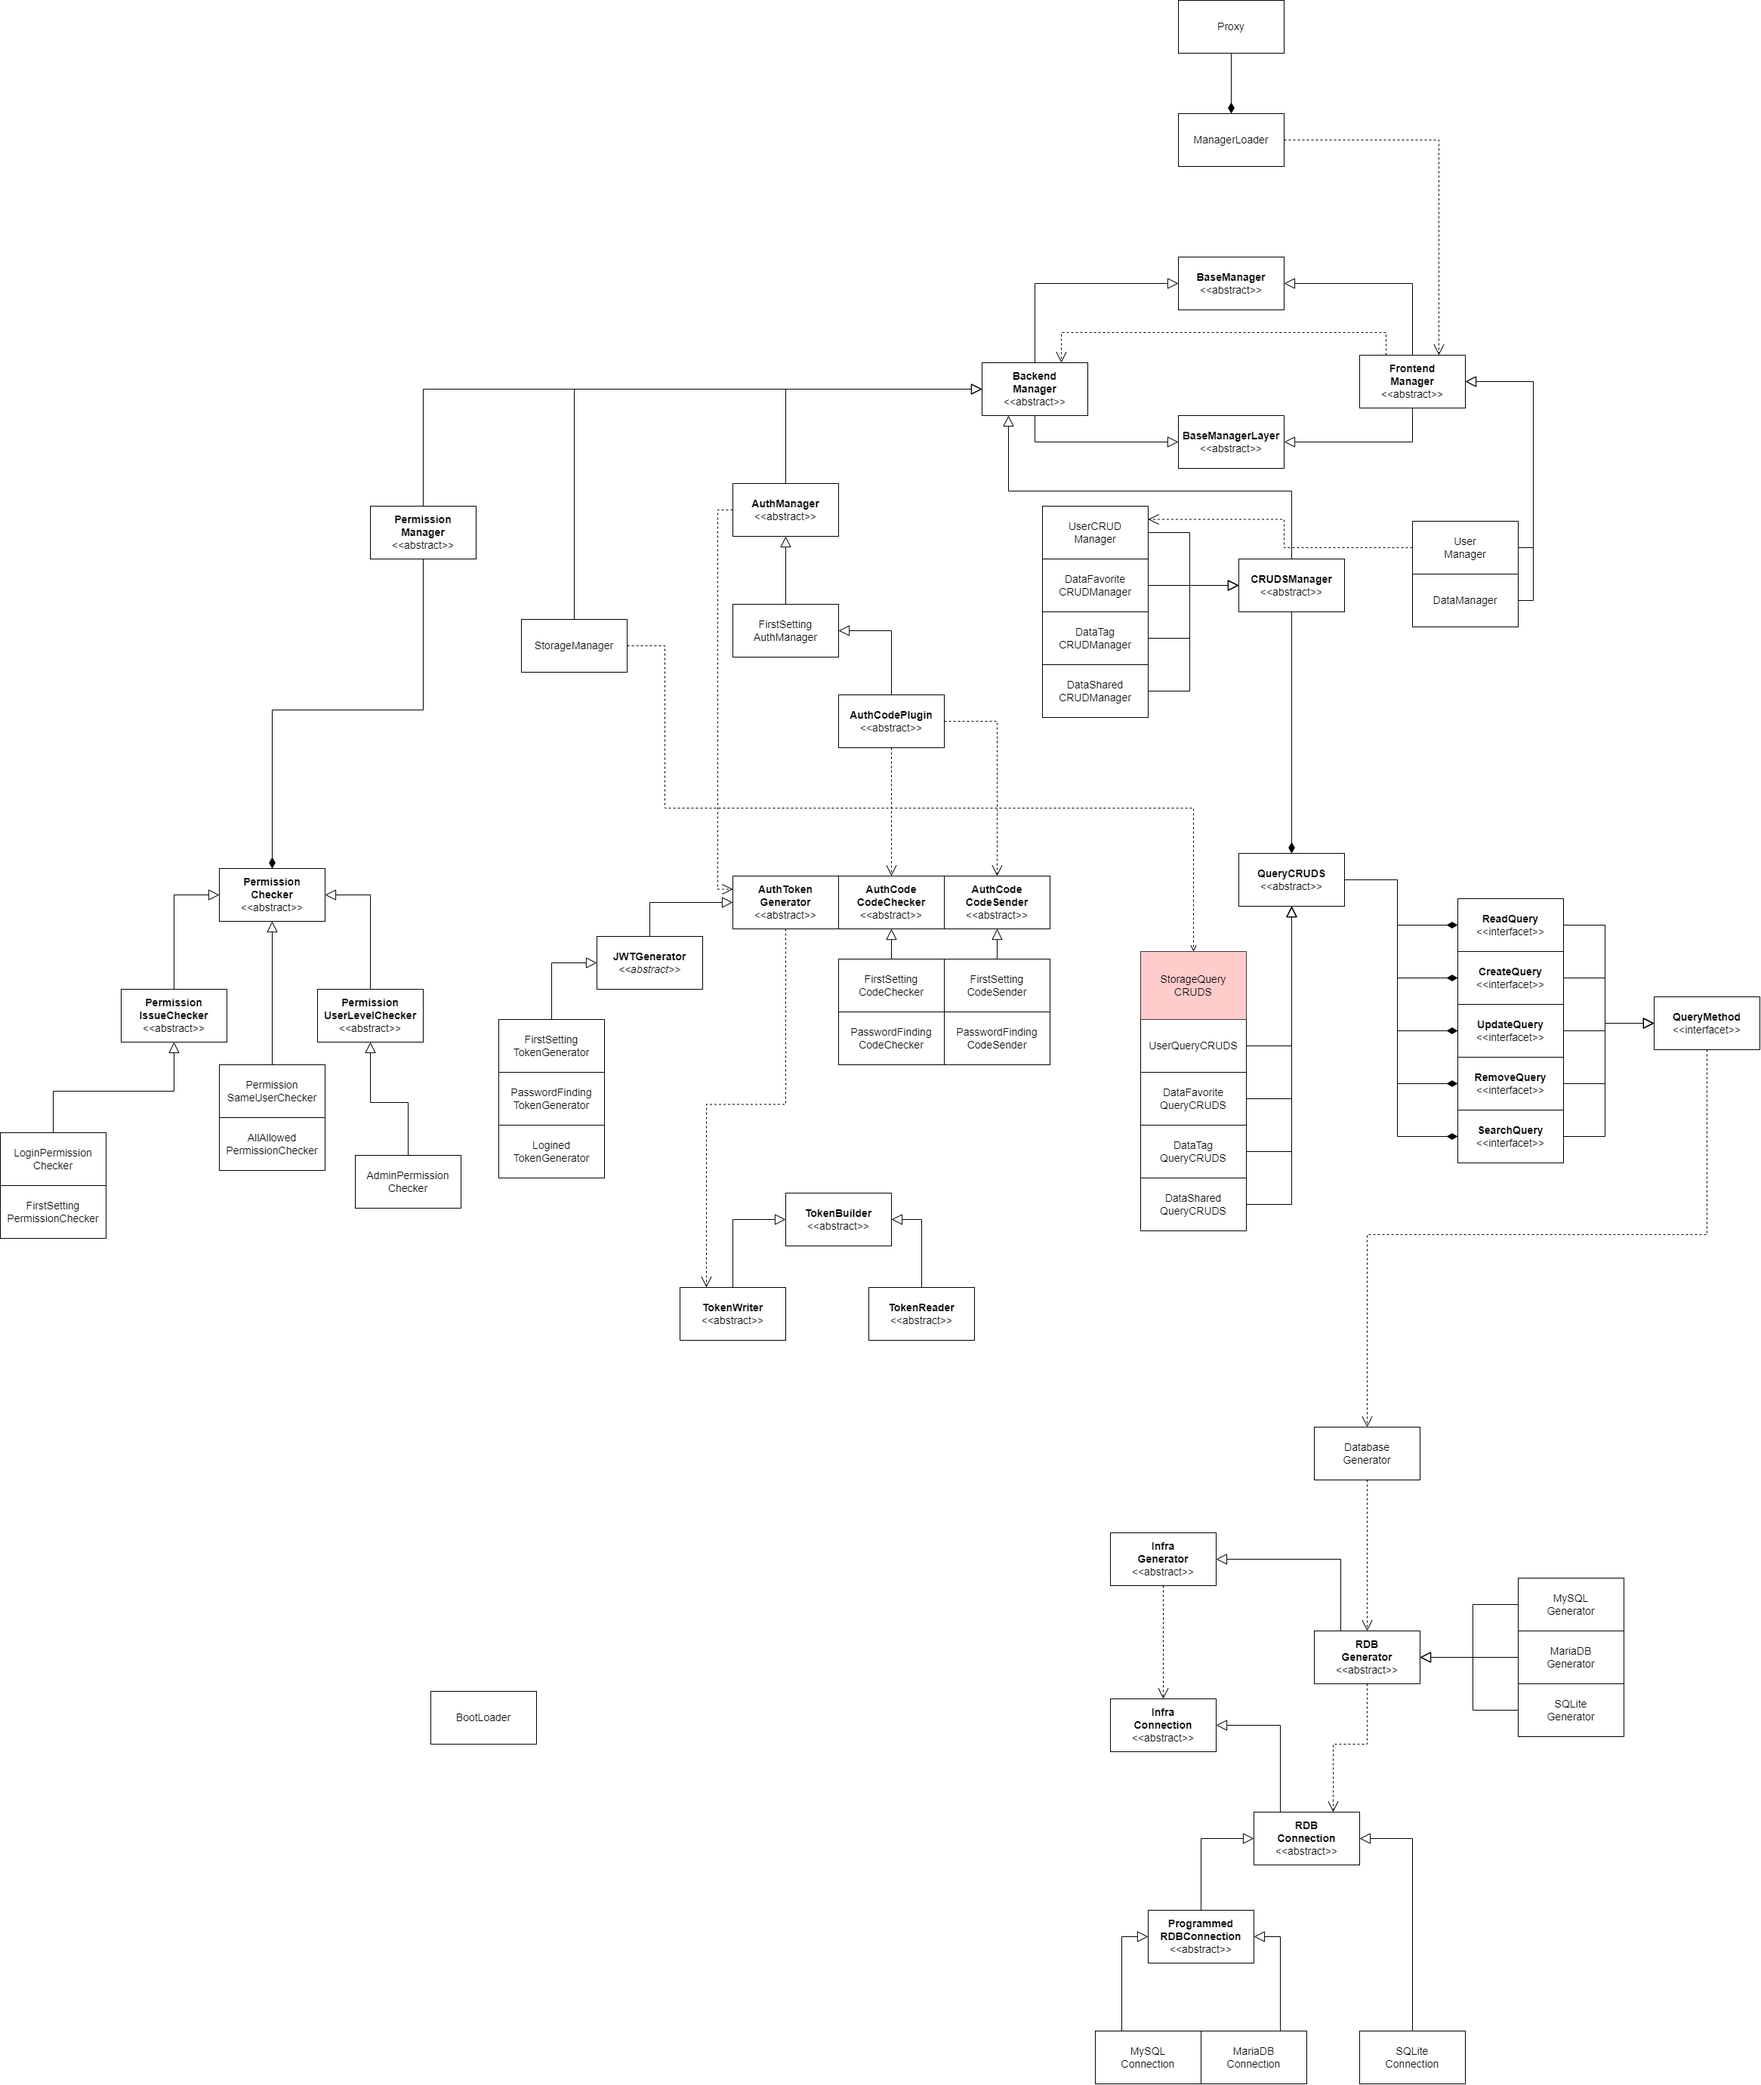
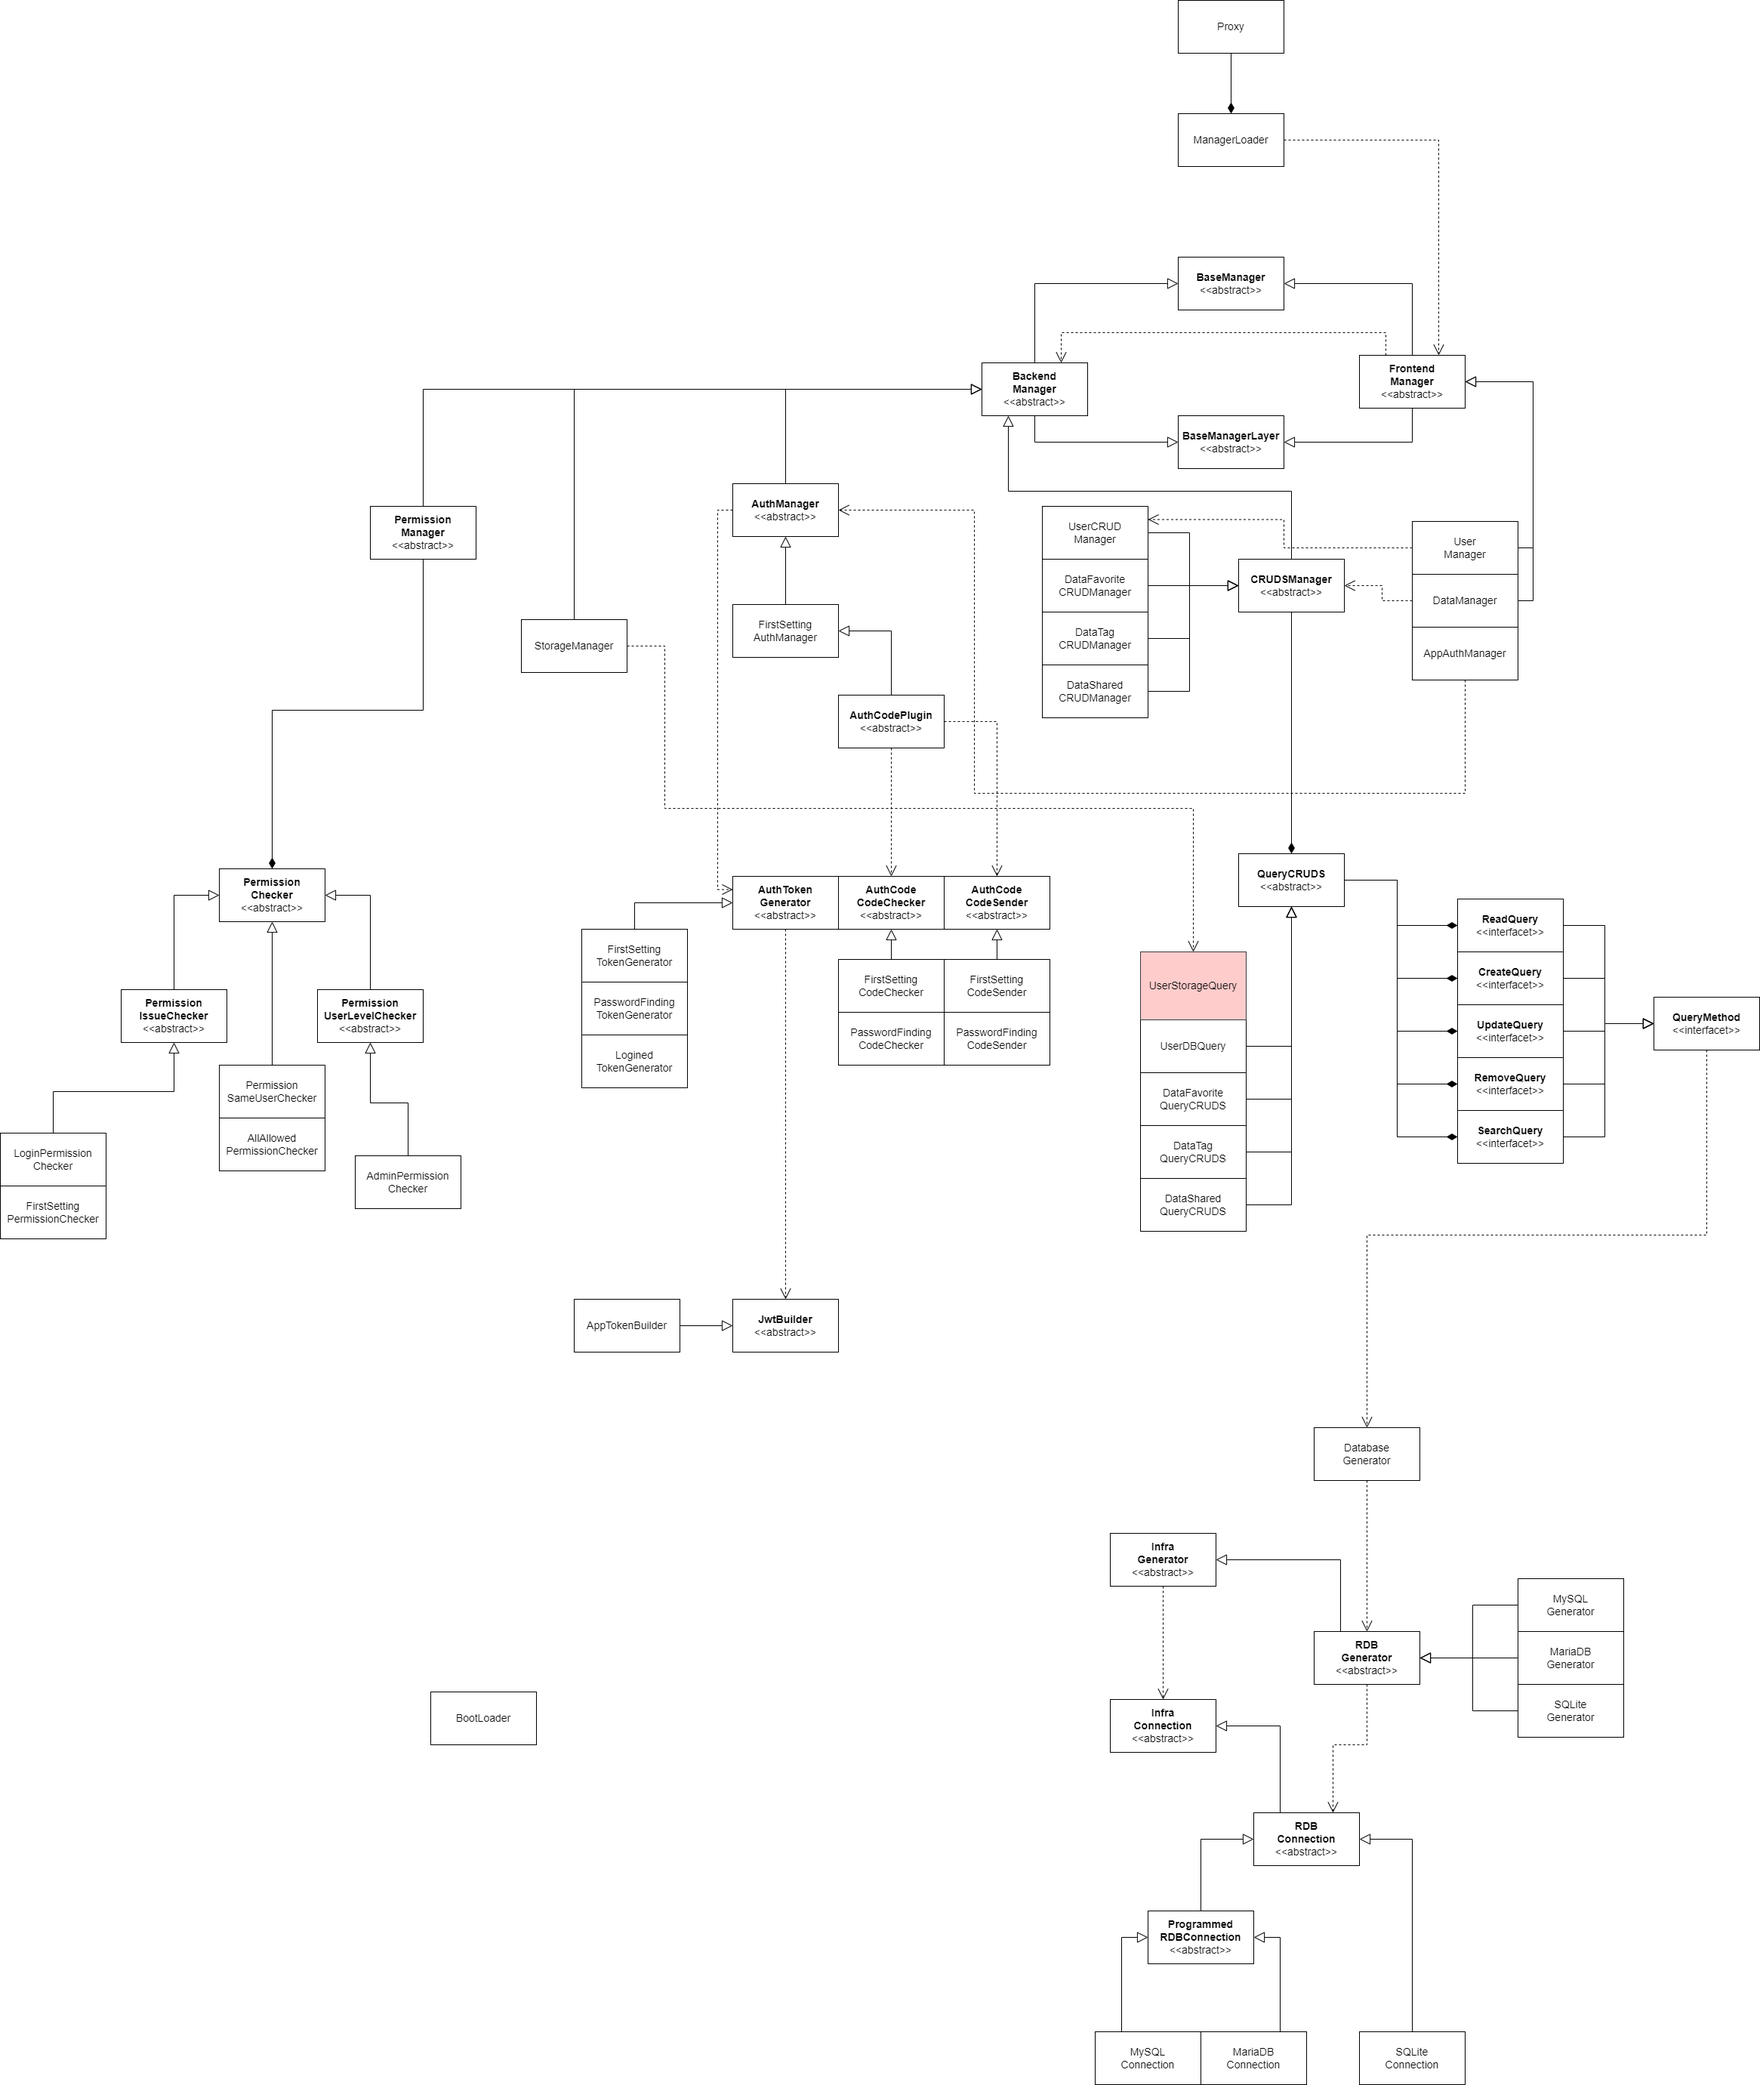
add: make user query, token system
토큰 R/W 시스템 구현
User기본 쿼리 구현
로그인 기능 추가 구현 예정

diff --git a/server/apps/user/utils/queries/user_db_query.py b/server/apps/user/utils/queries/user_db_query.py
@@ -3,7 +3,7 @@ from typing import Optional
 
 from apps.user.models import User
 from apps.user.schemas import UserCreate
-from architecture.query.crud import QueryCRUD, QueryCreator, QueryDestroyer
+from architecture.query.crud import QueryCRUD, QueryCreator, QueryDestroyer, QueryReader
 from core.exc import UserNotFound
 from system.connection.generators import DatabaseGenerator
 
@@ -11,8 +11,8 @@ from system.connection.generators import DatabaseGenerator
 
 class UserDBQueryCreator(QueryCreator):
     def __call__(self, user_format: UserCreate) -> User:
-        session = DatabaseGenerator.get_session()
 
+        session = DatabaseGenerator.get_session()
         q = session.query(User)
         # 동일한 name이나 email이 있으면 안된다.
         assert q.filter(or_(
@@ -37,6 +37,34 @@ class UserDBQueryCreator(QueryCreator):
         finally:
             session.close()
 
+class UserDBQueryReader(QueryReader):
+    def __call__(
+        self,
+        user_name: Optional[str] = None, 
+        user_email: Optional[str] = None, 
+        user_id: Optional[int] = None
+    ) -> Optional[User]:
+
+        session = DatabaseGenerator.get_session()
+        q = session.query(User)
+        user: User = None
+
+        try:
+            if user_name:
+                user = q.filter(User.name == user_name).scalar()
+            elif user_email:
+                user = q.filter(User.email == user_email).scalar()
+            elif user_id:
+                user = q.filter(User.id == user_id).scalar()
+        except Exception as e:
+            session.rollback()
+            raise e
+        else:
+            return user
+        finally:
+            session.close()
+
+
 class UserDBQueryDestroyer(QueryDestroyer):
     def __call__(
         self,
@@ -44,6 +72,7 @@ class UserDBQueryDestroyer(QueryDestroyer):
         user_email: Optional[str] = None, 
         user_id: Optional[int] = None
     ) -> int:
+
         session = DatabaseGenerator.get_session()
         q = session.query(User)
         user: User = None
@@ -66,5 +95,6 @@ class UserDBQueryDestroyer(QueryDestroyer):
             session.close()
 
 class UserDBQuery(QueryCRUD):
+    reader = UserDBQueryReader()
     creator = UserDBQueryCreator()
-    destroyer: UserDBQueryDestroyer()
+    destroyer = UserDBQueryDestroyer()

diff --git a/server/architecture/system/jwt.py b/server/architecture/system/jwt.py
@@ -1,0 +1,47 @@
+from abc import ABCMeta
+from collections.abc import Sequence
+from typing import Any, Dict
+import jwt
+import time
+import datetime
+
+
+class JwtBuilder(metaclass=ABCMeta):
+    data_map: Sequence[str]
+    jwt_key: str
+    jwt_algorithm: str
+
+    def _save_data(self, k: str, v: Any, m: Dict[str, Any]):
+        """
+        iat: 발행 시각
+        exp: 만료 시각
+
+        이 경우, 따로 처리를 한다.
+        """
+        if k == 'iat':
+            # iat의 데이터타입은 datetime.datetime이어야 한다.
+            if not isinstance(v, datetime.datetime):
+                raise ValueError('iat writing failed')
+            m[k] = time.mktime(v.timetuple())
+        elif k == 'exp':
+            # exp 데이터 타입은 datetime이어야 한다.
+            if not isinstance(v, datetime.datetime):
+                raise ValueError('exp writing failed')
+            m[k] = time.mktime(v.timetuple())
+        else:
+            m[k] = v
+    
+    def write(self, **kwargs) -> str:
+        input_data: Dict[str, Any] = dict()
+
+        for k, v in kwargs.items():
+            if k not in self.data_map:
+                continue
+            self._save_data(k=k, v=v, m=input_data)
+        # Load
+        return jwt.encode(input_data, self.jwt_key, self.jwt_algorithm)
+            
+
+    def read(self, token: str):
+        decoded = jwt.decode(token, self.jwt_key, algorithms=[self.jwt_algorithm])
+        return decoded

diff --git a/server/architecture/query/auth.py b/server/architecture/query/auth.py
@@ -1,0 +1,37 @@
+from abc import ABCMeta
+from typing import Any, Dict
+import datetime
+import time
+
+from jwt import ExpiredSignatureError
+
+from architecture.system.jwt import JwtBuilder
+
+
+class AuthTokenGenerator(metaclass=ABCMeta):
+    token_builder: JwtBuilder   # required key = (issue_key, 'exp', 'iat')
+    issue_key: str = 'iss'      # issue key (iss defualt)
+    issue_name: str             # name of issue
+    token_length: int           # 분단위
+
+    def generate(self, input_data: Dict[str, Any]):
+        copied = input_data.copy()
+        copied[self.issue_key] = self.issue_name
+        copied['iat'] = datetime.datetime.now()
+        copied['exp'] = \
+            copied['iat'] \
+                + datetime.timedelta(seconds=self.token_length * 60)
+        return self.token_builder.write(**copied)
+
+    def decode(self, s: str):
+        decoded = self.token_builder.write(s)
+        try:
+            issue = decoded[self.issue_key]
+            expired = decoded['exp']
+        except KeyError as e:
+            raise e
+        if time.time() > expired:
+            # 시간 만료됨
+            raise ExpiredSignatureError()
+        assert issue == self.issue_name
+        return decoded

diff --git a/server/apps/user/utils/managers.py b/server/apps/user/utils/managers.py
@@ -36,8 +36,17 @@ class UserCRUDManager(CRUDManager):
     def update():
         raise NotImplementedError
     
-    def read():
-        raise NotImplementedError
+    def read(
+        self,
+        user_name: Optional[str] = None,
+        user_email: Optional[str] = None,
+        user_id: Optional[int] = None
+    ):
+        return UserDBQuery().read(
+            user_name=user_name,
+            user_email=user_email,
+            user_id=user_id,
+        )
 
     def destroy(
         user_name: Optional[str] = None,
@@ -48,6 +57,7 @@ class UserCRUDManager(CRUDManager):
             user_name=user_name,
             user_email=user_email,
             user_id=user_id
+            
         )
         UserStorageQuery().destory(user_id=removed_id)
     def search():

diff --git a/server/architecture/manager/backend_manager.py b/server/architecture/manager/backend_manager.py
@@ -1,6 +1,8 @@
 from abc import ABC, abstractmethod
+from typing import Dict, Any
 
 from architecture.manager.base_manager import BackendManager
+from architecture.query.auth import AuthTokenGenerator
 from architecture.query.crud import QueryCRUD
 
 
@@ -31,3 +33,13 @@ class CRUDManager(BackendManager, ABC):
     @abstractmethod
     def search(self, *args, **kwargs):
         pass
+
+class AuthManager(BackendManager):
+    
+    token_generator: AuthTokenGenerator
+
+    def generate_token(self, req: Dict[str, Any]):
+        return self.token_generator.generate(req)
+
+    def read_token(self, token: str):
+        return self.token_generator.decode(token)

diff --git a/server/core/token_generators.py b/server/core/token_generators.py
@@ -1,0 +1,21 @@
+from architecture.query.auth import AuthTokenGenerator
+from core.jwt_controls import AppTokenBuilder
+
+
+class LoginTokenGenerator(AuthTokenGenerator):
+    token_builder = AppTokenBuilder
+    issue_key = 'iss'
+    issue_name = 'logined'
+    token_length = 60 * 24 * 30 # 30일
+
+class PasswordFindingTokenGenerator(AuthTokenGenerator):
+    token_builder = AppTokenBuilder
+    issue_key = 'iss'
+    issue_name = 'passwd-finding'
+    token_length = 5    # 5분
+
+class FirstSettingTokenGenerator(AuthTokenGenerator):
+    token_builder = AppTokenBuilder
+    issue_key = 'iss'
+    issue_name = 'first-setting'
+    token_length = 10

diff --git a/server/apps/auth/views.py b/server/apps/auth/views.py
@@ -1,0 +1,22 @@
+
+
+from fastapi import APIRouter, Request, status
+
+
+auth_router = APIRouter(
+    prefix='/api/auth',
+    tags=['auth'],
+    responses={404: {'error': 'Not Found'}}
+)
+
+class TokenGenerateView:
+    """
+    (POST)  /api/auth/token     토큰 발행
+    """
+    @staticmethod
+    @auth_router.post(
+        path='/token',
+        status_code=status.HTTP_201_CREATED,
+    )
+    async def get_token(request: Request):
+        pass

diff --git a/server/apps/auth/tests/test_login.py b/server/apps/auth/tests/test_login.py
@@ -1,0 +1,23 @@
+from fastapi import FastAPI
+import pytest
+
+from core.init import init_app
+
+from system.bootloader import Bootloader
+
+
+
+@pytest.fixture(scope='module')
+def api():
+
+    # Load Application
+    app: FastAPI = init_app()
+    Bootloader.migrate_database()
+    Bootloader.init_storage()
+
+    yield app
+
+    # Remove Application
+    Bootloader.remove_storage()
+    Bootloader.remove_database()
+

diff --git a/server/apps/auth/utils/managers.py b/server/apps/auth/utils/managers.py
@@ -1,0 +1,14 @@
+from architecture.manager.backend_manager import AuthManager
+from architecture.manager.base_manager import FrontendManager
+from core.token_generators import LoginTokenGenerator
+
+
+class LoginAuthManager(AuthManager):
+    token_generator = LoginTokenGenerator
+
+
+class AppAuthManager(FrontendManager):
+
+    @staticmethod
+    def login(user: str, paswd: str):
+        pass

diff --git a/server/apps/user/schemas.py b/server/apps/user/schemas.py
@@ -1,6 +1,7 @@
 from pydantic import BaseModel, validator
 from pydantic import validate_email as check_email
 import re
+import datetime
 
 class UserBase(BaseModel):
 
@@ -40,3 +41,8 @@ class UserBase(BaseModel):
 
 class UserCreate(UserBase):
     pass
+
+
+class UserRead(UserBase):
+    id: int
+    created: datetime.datetime

diff --git a/server/core/jwt_controls.py b/server/core/jwt_controls.py
@@ -1,0 +1,7 @@
+from architecture.system.jwt import JwtBuilder
+from settings.base import JWT
+
+class AppTokenBuilder(JwtBuilder):
+    data_map = ('iss', 'email', 'iat', 'exp')
+    jwt_key = JWT['key']
+    jwt_algorithm = JWT['algorithm']

diff --git a/server/settings/base.py b/server/settings/base.py
@@ -27,3 +27,7 @@ ADMIN = {
     'email': os.getenv('ADMIN_EMAIL'),
     'email_2nd_pswd': os.getenv('ADMIN_EMAIL_PASSWD'),
 }
+JWT = {
+    'key': os.getenv('JWT_KEY'),
+    'algorithm': os.getenv('JWT_ALGORITHM'),
+}
